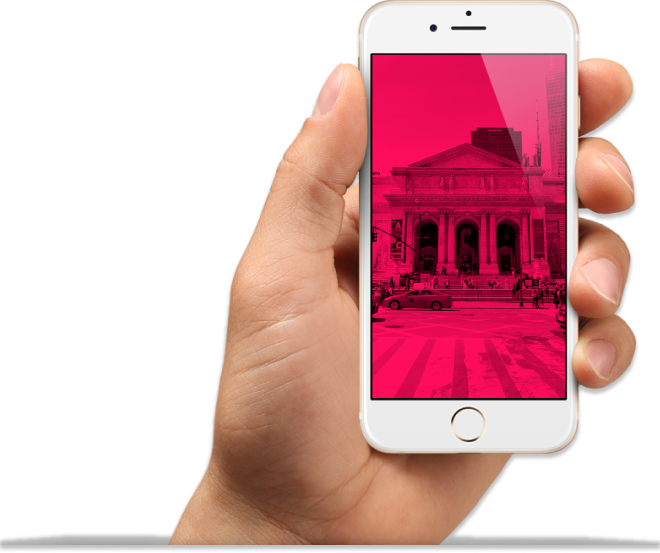
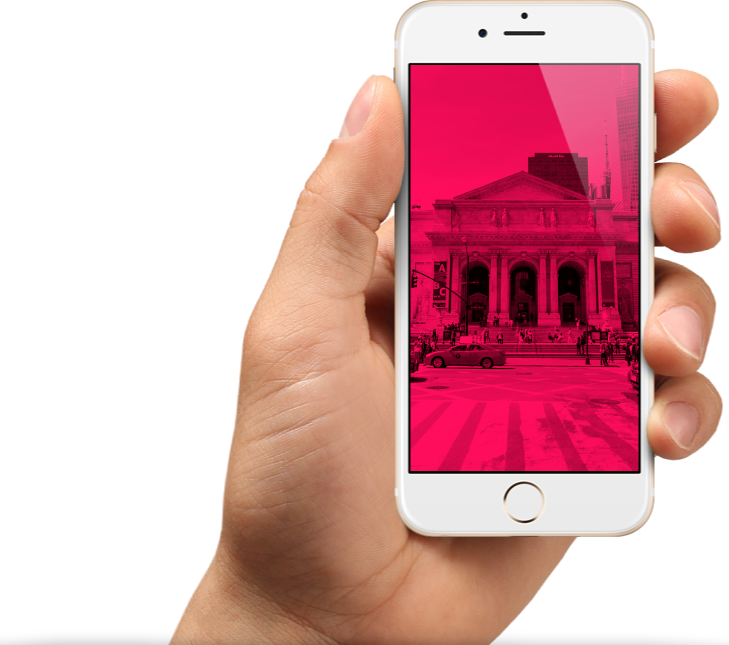
Исправил горизонтальный скролл десктоп

diff --git a/source/less/blocks/download.less b/source/less/blocks/download.less
@@ -27,7 +27,7 @@
   @media (min-width: @desktop-width) {
     margin-top: -110px;
     background-image: url("../img/back-desktop.jpg");
-    background-position: top;
+    background-position: bottom;
     background-size: 100% auto;
 
     @media (min-resolution: 2dppx) {
@@ -56,11 +56,12 @@
 
     @media (min-width: @desktop-width) {
       bottom: 0;
-      left: 0;
-      width: 1050px;
+      left: 30%;
+      width: 729px;
       height: 645px;
       background-image: url("../img/handphone-desktop.png");
       background-size: 100% auto;
+      background-position: bottom;
 
       @media (min-resolution: 2dppx) {
         background-image: url("../img/handphone-desktop@2x.png");
